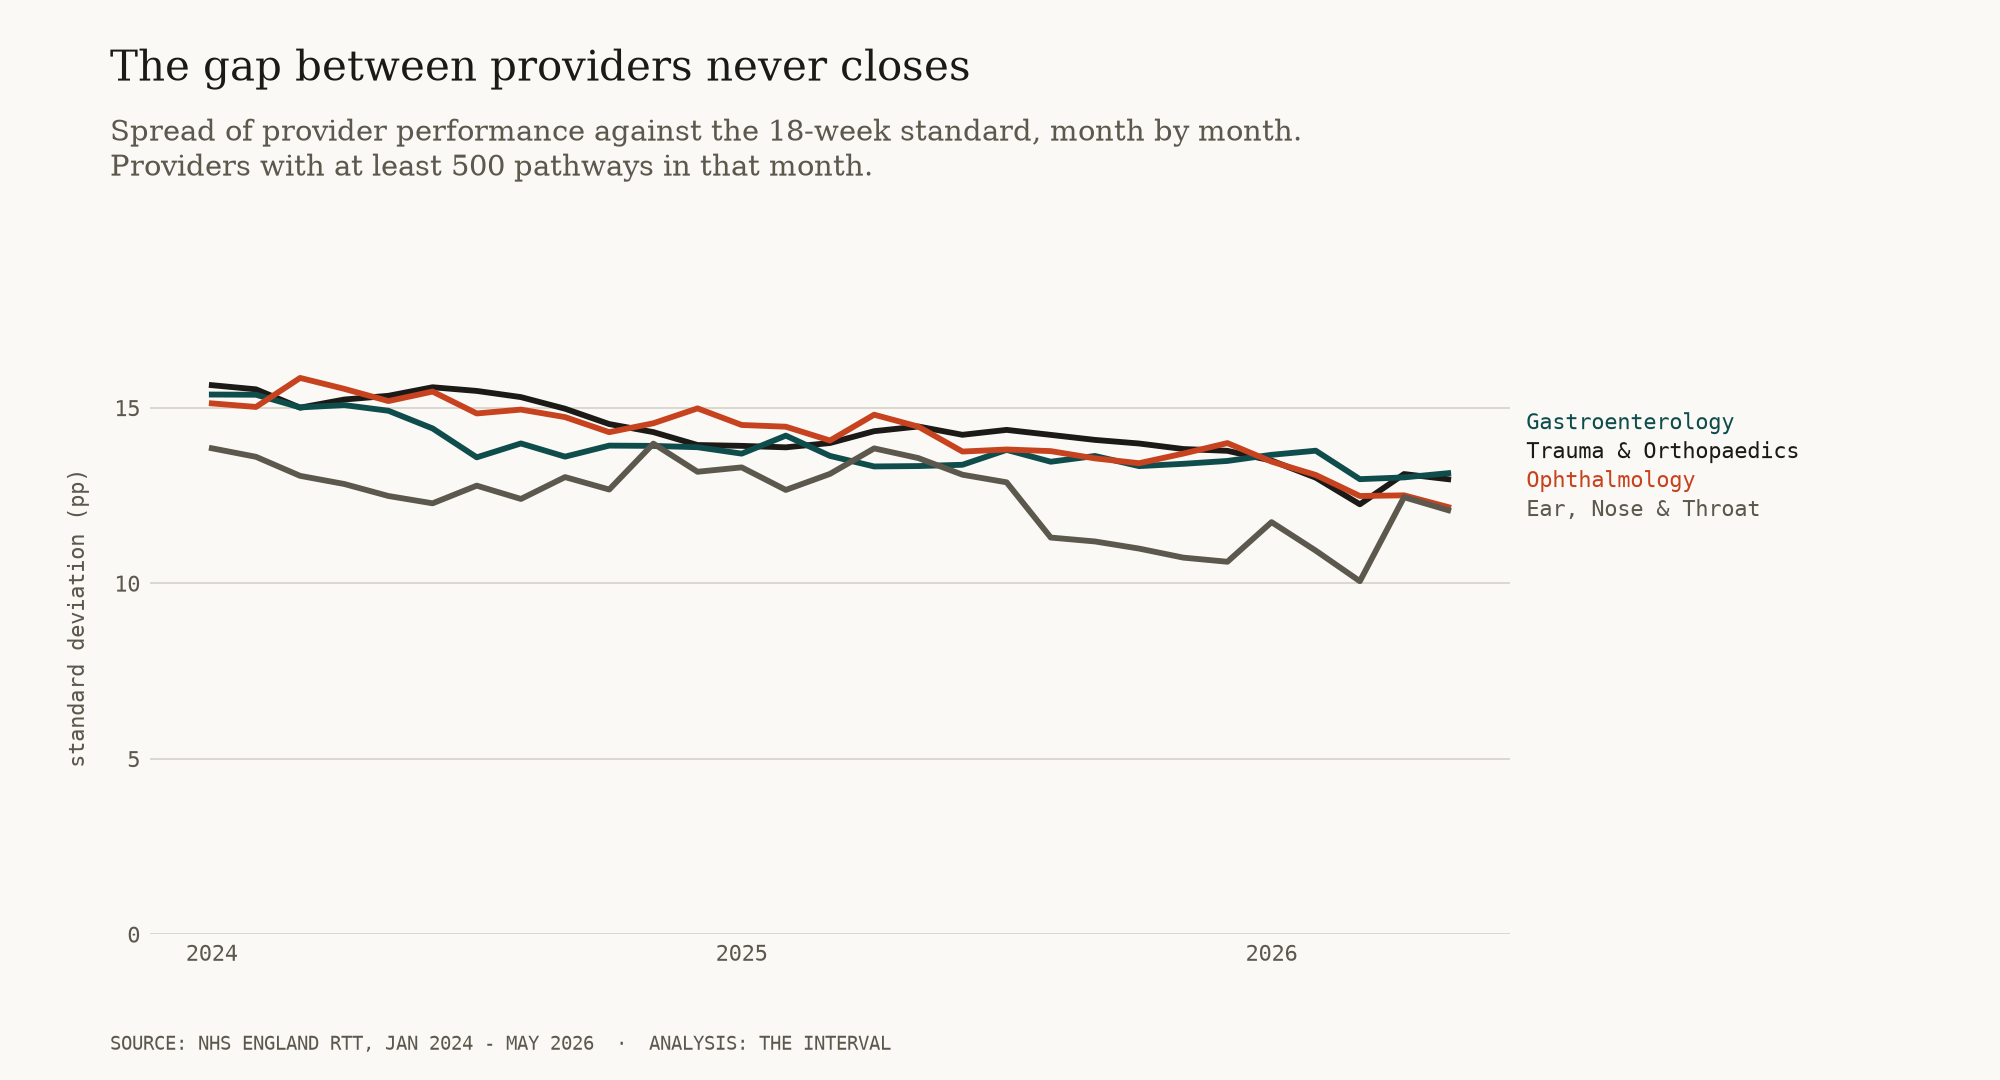
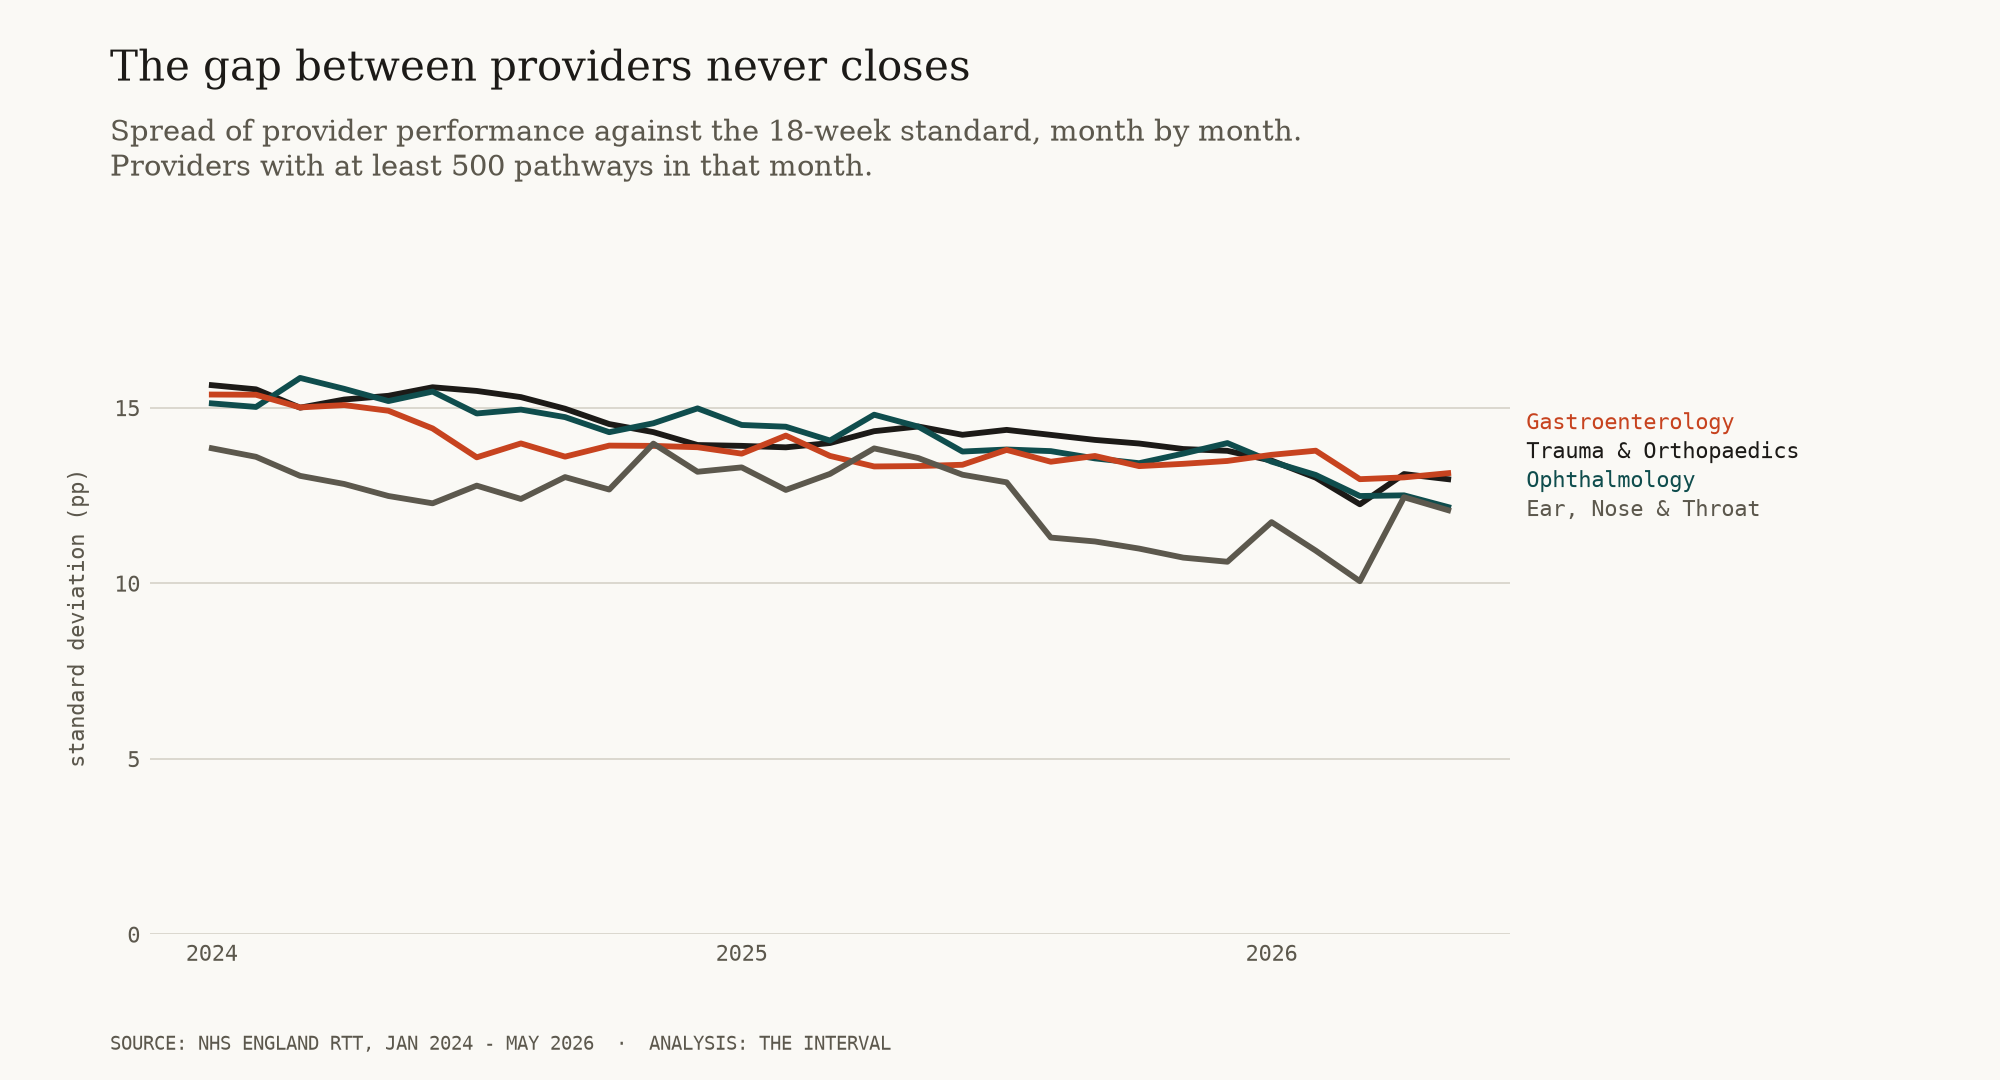
Order the Finding 03 series by structure at the floor the figures use
The series order was set by the 1,000-floor variance shares while every figure
draws the 500 floor, where Ophthalmology and Gastroenterology swap places.

diff --git a/finding-03/analysis/make_figures.py b/finding-03/analysis/make_figures.py
@@ -19,9 +19,10 @@ PACK = Path(__file__).resolve().parents[1]
 OUT, FIG = PACK / "outputs", PACK / "figures"
 FIG.mkdir(exist_ok=True)
 
-# Ordered by how much durable between-provider structure each carries, so every
-# figure tells the four specialties in the same sequence.
-ORDER = ["C_110", "C_301", "C_130", "C_120"]
+# Ordered by how much durable between-provider structure each carries at the
+# 500-pathway floor these figures use, so every figure — and the article's
+# comparison table — tells the four specialties in the same sequence.
+ORDER = ["C_110", "C_130", "C_301", "C_120"]
 SHORT = {"C_110": "Trauma & Orthopaedics", "C_301": "Gastroenterology",
          "C_130": "Ophthalmology", "C_120": "Ear, Nose & Throat"}
 SRC = "Source: NHS England RTT, Jan 2024 - May 2026  ·  Analysis: The Interval"
